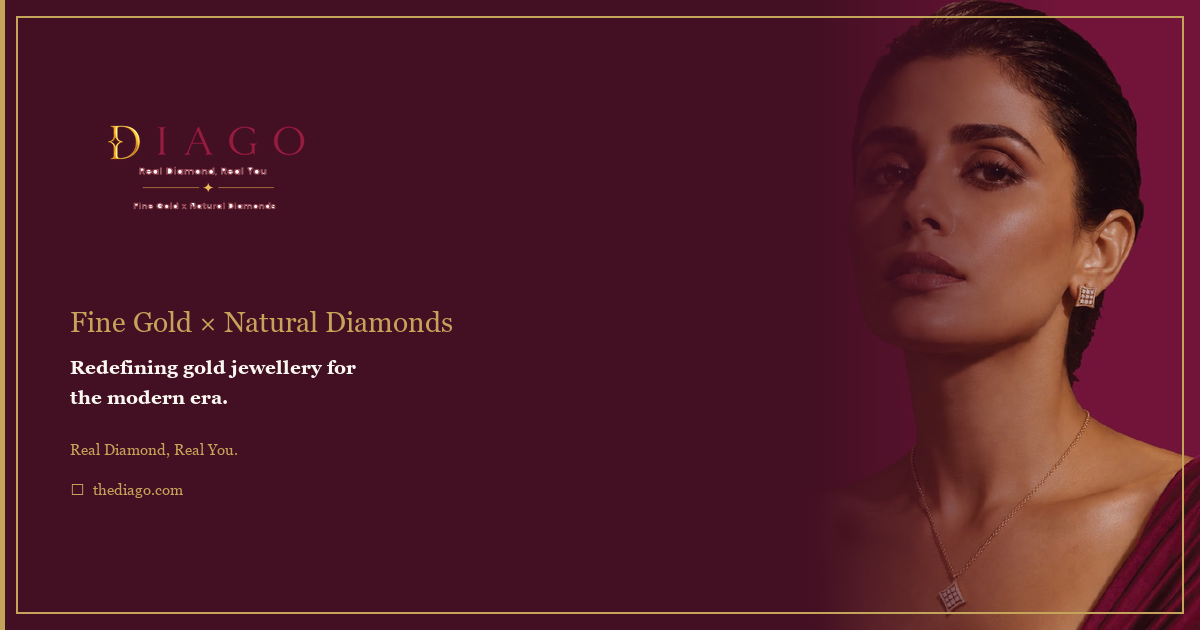
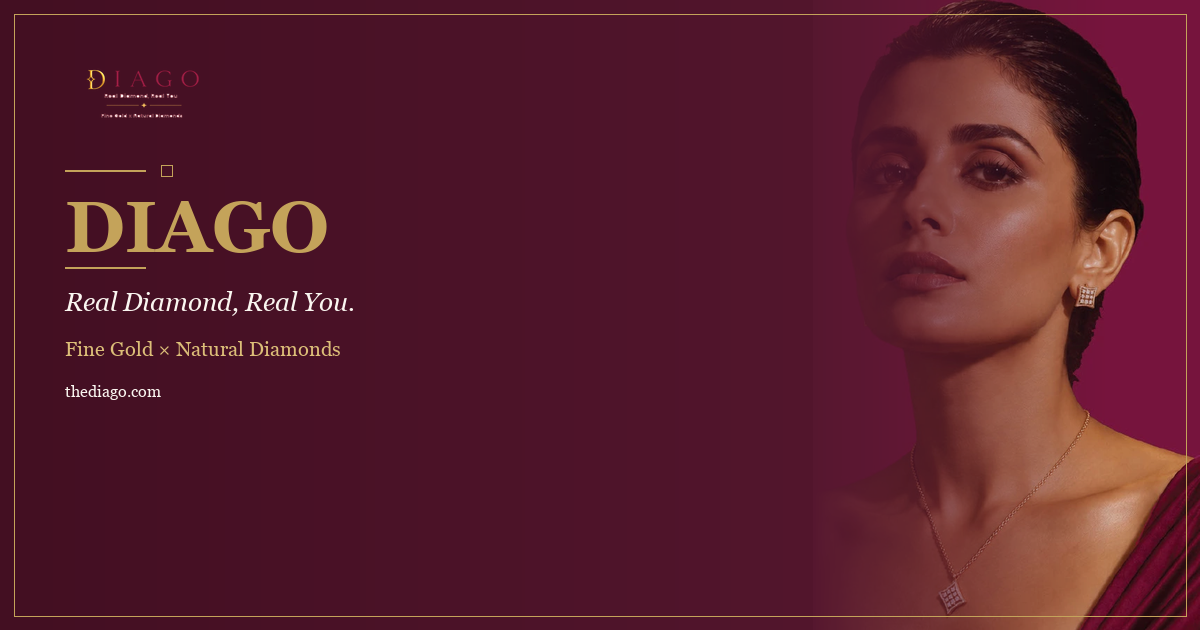
Improve OG image, add SEO essentials (robots.txt, sitemap, JSON-LD)
- Redesigned OG image: large bold DIAGO text in gold so it reads clearly
  in WhatsApp's small square thumbnail crop
- Added robots.txt allowing all crawlers
- Added sitemap.xml listing all 5 pages
- Added canonical URL meta tag
- Added JSON-LD structured data (JewelryStore schema with contact info
  and social profiles) for Google rich results

diff --git a/src/app/layout.tsx b/src/app/layout.tsx
@@ -53,6 +53,9 @@ export const metadata: Metadata = {
       "Redefining gold jewellery for the modern era — fine gold artistry paired with certified natural diamonds.",
     images: ["/images/og-image.png"],
   },
+  alternates: {
+    canonical: "https://thediago.com",
+  },
   icons: {
     icon: [
       { url: withBase("/favicon.ico"), sizes: "any" },
@@ -67,6 +70,27 @@ export default function RootLayout({ children }: { children: React.ReactNode }) 
   return (
     <html lang="en" className={`${playfair.variable} ${cormorant.variable} ${lato.variable} h-full antialiased`}>
       <body className="min-h-full flex flex-col" style={{ fontFamily: "var(--font-sans), sans-serif" }}>
+        <script
+          type="application/ld+json"
+          dangerouslySetInnerHTML={{
+            __html: JSON.stringify({
+              "@context": "https://schema.org",
+              "@type": "JewelryStore",
+              name: "DIAGO",
+              description: "Fine gold jewellery paired with certified natural diamonds. A brand by Dishaa Gold and Platinum.",
+              url: "https://thediago.com",
+              logo: "https://thediago.com/images/logo.webp",
+              image: "https://thediago.com/images/og-image.png",
+              email: "diago@dishaplatinum.com",
+              telephone: "+912268936666",
+              sameAs: [
+                "https://www.instagram.com/thediago09",
+                "https://www.facebook.com/profile.php?id=61593246591561",
+                "https://www.youtube.com/channel/UCJvvisZdsdFvCA6kk_Y6T2w",
+              ],
+            }),
+          }}
+        />
         <Navbar />
         <main className="flex-1">{children}</main>
         <Footer />
